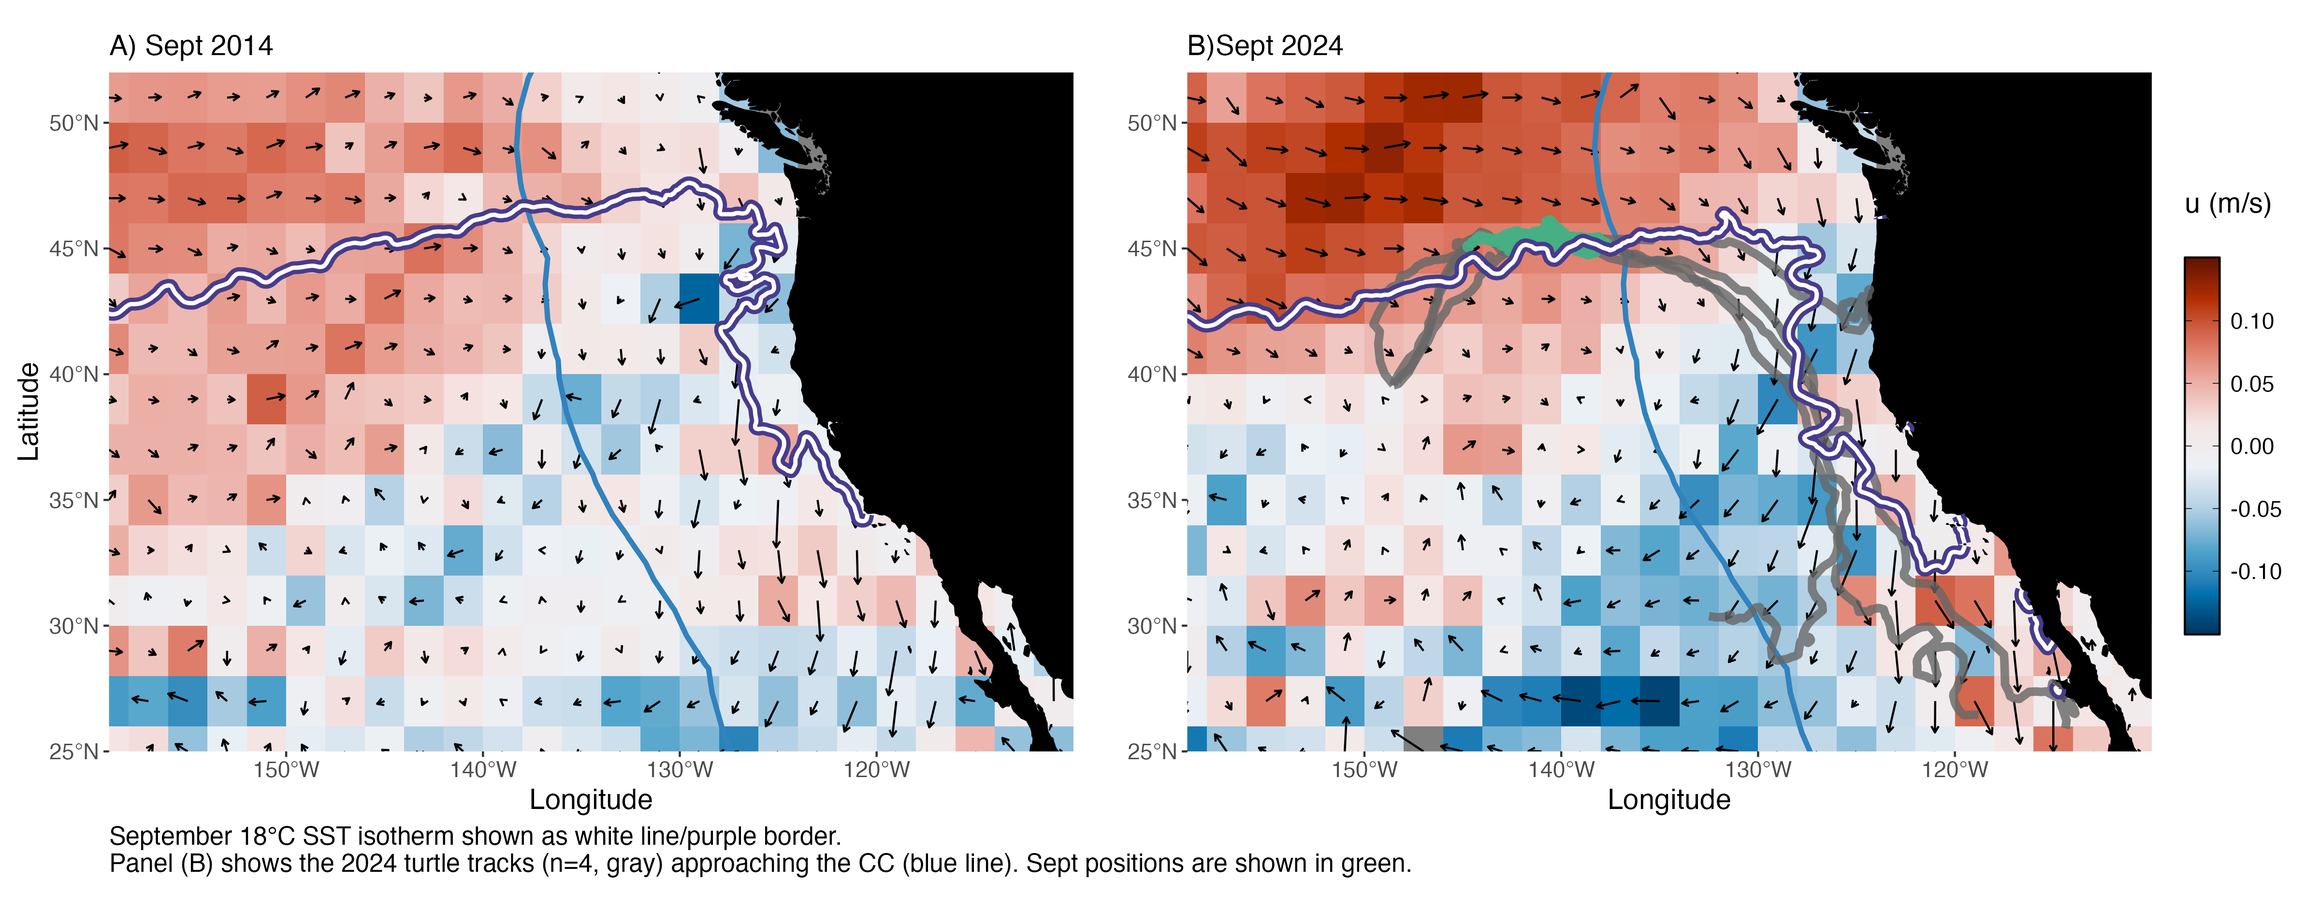
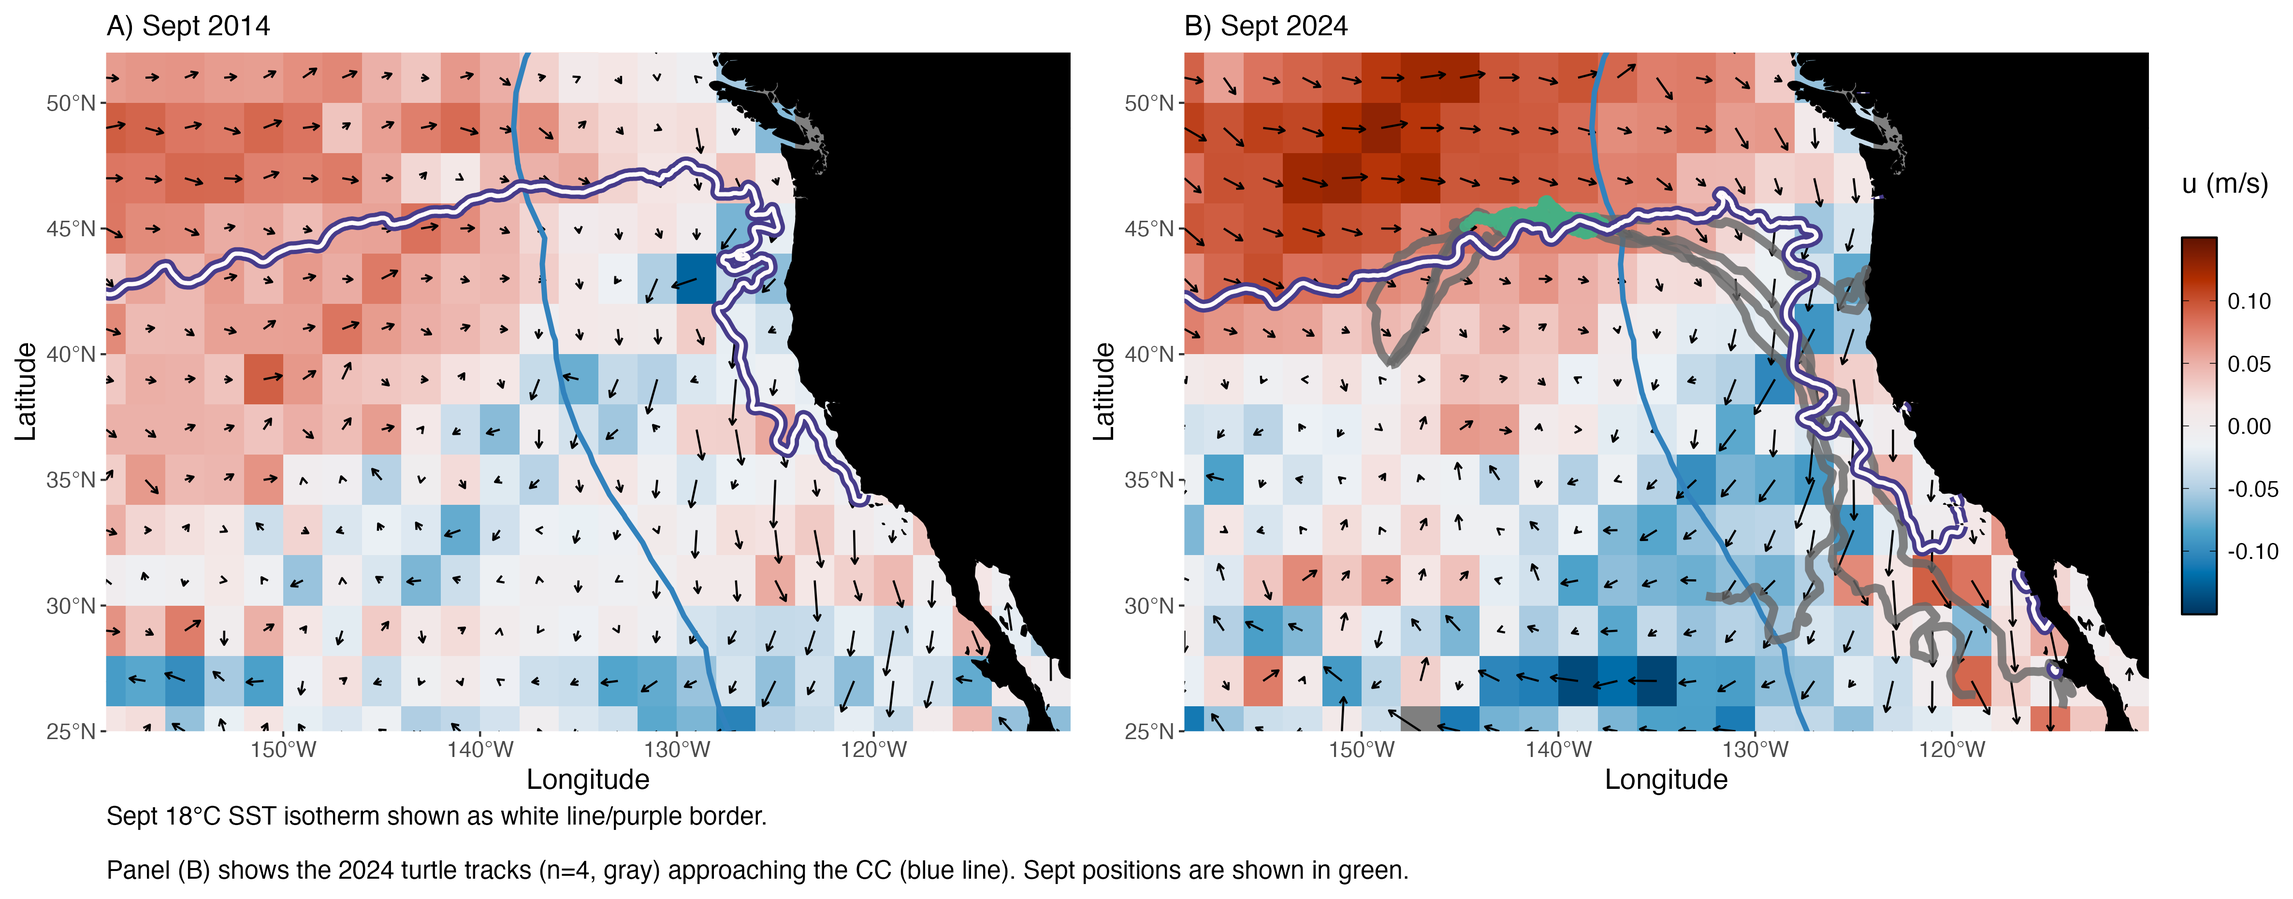
add draft figs updates for oct currents

Changed region(s): [[0.0, 0.0, 0.9983, 0.9973]]

diff --git a/docs/draft_ms_figs_10Apr2025.html b/docs/draft_ms_figs_10Apr2025.html
@@ -167,7 +167,7 @@ ul.task-list li input[type="checkbox"] {
           <li class="sidebar-item">
   <div class="sidebar-item-container"> 
   <a href="./draft_ms_figs_10Apr2025.html" class="sidebar-item-text sidebar-link active">
- <span class="menu-text">03-Apr-2025</span></a>
+ <span class="menu-text">10-Apr-2025</span></a>
   </div>
 </li>
           <li class="sidebar-item">
@@ -255,10 +255,13 @@ ul.task-list li input[type="checkbox"] {
   <ul>
   <li><a href="#draft-manuscript-figures-in-progress" id="toc-draft-manuscript-figures-in-progress" class="nav-link active" data-scroll-target="#draft-manuscript-figures-in-progress">Draft Manuscript Figures (in progress)</a>
   <ul class="collapse">
-  <li><a href="#fig-1.-september-currents-and-historic-turtle-tracks-2006---2007" id="toc-fig-1.-september-currents-and-historic-turtle-tracks-2006---2007" class="nav-link" data-scroll-target="#fig-1.-september-currents-and-historic-turtle-tracks-2006---2007">Fig 1. September currents and historic turtle tracks (2006 - 2007)</a></li>
+  <li><a href="#fig-1.-septoct-currents-and-historic-turtle-tracks-2006---2007" id="toc-fig-1.-septoct-currents-and-historic-turtle-tracks-2006---2007" class="nav-link" data-scroll-target="#fig-1.-septoct-currents-and-historic-turtle-tracks-2006---2007">Fig 1. Sept/Oct currents and historic turtle tracks (2006 - 2007)</a></li>
+  <li><a href="#a-september-b-october-2006-2007" id="toc-a-september-b-october-2006-2007" class="nav-link" data-scroll-target="#a-september-b-october-2006-2007">(A) September &amp; (B) October: 2006 &amp; 2007</a></li>
   <li><a href="#fig-2.-mean-turtle-latitude-by-year-group" id="toc-fig-2.-mean-turtle-latitude-by-year-group" class="nav-link" data-scroll-target="#fig-2.-mean-turtle-latitude-by-year-group">Fig 2. Mean Turtle Latitude by Year Group</a></li>
-  <li><a href="#fig-3.-four-cohort-2-turtles-in-cc-chl-a-septoct-2024" id="toc-fig-3.-four-cohort-2-turtles-in-cc-chl-a-septoct-2024" class="nav-link" data-scroll-target="#fig-3.-four-cohort-2-turtles-in-cc-chl-a-septoct-2024">Fig 3. Four Cohort 2 Turtles in CC &amp; Chl-a (Sept/Oct 2024)</a></li>
-  <li><a href="#fig-4.-comparison-of-sept-2014-2024-currents-isotherm" id="toc-fig-4.-comparison-of-sept-2014-2024-currents-isotherm" class="nav-link" data-scroll-target="#fig-4.-comparison-of-sept-2014-2024-currents-isotherm">Fig 4. Comparison of Sept 2014 &amp; 2024 currents &amp; isotherm</a></li>
+  <li><a href="#fig-3.-comparison-of-septoct-2014-2024-currents-isotherm" id="toc-fig-3.-comparison-of-septoct-2014-2024-currents-isotherm" class="nav-link" data-scroll-target="#fig-3.-comparison-of-septoct-2014-2024-currents-isotherm">Fig 3. Comparison of Sept/Oct 2014 &amp; 2024 currents &amp; isotherm</a></li>
+  <li><a href="#september" id="toc-september" class="nav-link" data-scroll-target="#september">September</a></li>
+  <li><a href="#october" id="toc-october" class="nav-link" data-scroll-target="#october">October</a></li>
+  <li><a href="#fig-4.-four-cohort-2-turtles-in-cc-chl-a-septoct-2024" id="toc-fig-4.-four-cohort-2-turtles-in-cc-chl-a-septoct-2024" class="nav-link" data-scroll-target="#fig-4.-four-cohort-2-turtles-in-cc-chl-a-septoct-2024">Fig 4. Four Cohort 2 Turtles in CC &amp; Chl-a (Sept/Oct 2024)</a></li>
   <li><a href="#possible-fig-or-table-current-corrected-turtle-speeds" id="toc-possible-fig-or-table-current-corrected-turtle-speeds" class="nav-link" data-scroll-target="#possible-fig-or-table-current-corrected-turtle-speeds"><em>Possible Fig or Table:</em> Current Corrected Turtle Speeds</a></li>
   </ul></li>
   </ul>
@@ -276,14 +279,17 @@ ul.task-list li input[type="checkbox"] {
 
 <section id="draft-manuscript-figures-in-progress" class="level2">
 <h2 class="anchored" data-anchor-id="draft-manuscript-figures-in-progress">Draft Manuscript Figures (in progress)</h2>
-<section id="fig-1.-september-currents-and-historic-turtle-tracks-2006---2007" class="level3">
-<h3 class="anchored" data-anchor-id="fig-1.-september-currents-and-historic-turtle-tracks-2006---2007">Fig 1. September currents and historic turtle tracks (2006 - 2007)</h3>
+<section id="fig-1.-septoct-currents-and-historic-turtle-tracks-2006---2007" class="level3">
+<h3 class="anchored" data-anchor-id="fig-1.-septoct-currents-and-historic-turtle-tracks-2006---2007">Fig 1. Sept/Oct currents and historic turtle tracks (2006 - 2007)</h3>
 <p>Average zonal flow (u) is shown with current vectors for September 2006 &amp; 2007.</p>
 <p>Full loggerhead tracks (2005-2008) are shown in gray. September positions between 2006-2007 are shown in green. See <a href="./cc_hycom_currents.html#historic-tracks-in-enp-with-zonal-average-sept-only">here</a> for a detailed figure of individual tracks.</p>
 <p>The average position of the 18°C SST isotherm (September 2006-2007) is shown in white/purple border. The offshore extent of the CC (as defined in Kahru &amp; Jacox, 2018) is shown in blue.</p>
 <p>Product: Copernicus Global Total Ocean Currents (Monthly, 0.25°), processed to a 2° x 2° spatial grid.</p>
 <p><br></p>
-<p><a href="docs/images/draft_suppl_cc_currents_sept_2006_2007.png" class="lightbox" data-gallery="quarto-lightbox-gallery-1"><img src="docs/images/draft_suppl_cc_currents_sept_2006_2007.png" class="img-fluid"></a></p>
+</section>
+<section id="a-september-b-october-2006-2007" class="level3">
+<h3 class="anchored" data-anchor-id="a-september-b-october-2006-2007">(A) September &amp; (B) October: 2006 &amp; 2007</h3>
+<p><a href="docs/images/draft_suppl_cc_currents_sept_and_oct_2006_2007.png" class="lightbox" data-gallery="quarto-lightbox-gallery-1"><img src="docs/images/draft_suppl_cc_currents_sept_and_oct_2006_2007.png" class="img-fluid"></a></p>
 <p><br></p>
 <p><br></p>
 </section>
@@ -293,18 +299,32 @@ ul.task-list li input[type="checkbox"] {
 <p><a href="docs/images/5A_Figure_turtle_yr_groups_ms_with_Q1_Q3_labels_Nov2024.jpg" class="lightbox" data-gallery="quarto-lightbox-gallery-2"><img src="docs/images/5A_Figure_turtle_yr_groups_ms_with_Q1_Q3_labels_Nov2024.jpg" class="img-fluid"></a></p>
 <p><br></p>
 </section>
-<section id="fig-3.-four-cohort-2-turtles-in-cc-chl-a-septoct-2024" class="level3">
-<h3 class="anchored" data-anchor-id="fig-3.-four-cohort-2-turtles-in-cc-chl-a-septoct-2024">Fig 3. Four Cohort 2 Turtles in CC &amp; Chl-a (Sept/Oct 2024)</h3>
-<p><a href="docs/images/draft_ms_fig_3_cc_chla_enpac.png" class="lightbox" data-gallery="quarto-lightbox-gallery-3"><img src="docs/images/draft_ms_fig_3_cc_chla_enpac.png" class="img-fluid"></a></p>
+<section id="fig-3.-comparison-of-septoct-2014-2024-currents-isotherm" class="level3">
+<h3 class="anchored" data-anchor-id="fig-3.-comparison-of-septoct-2014-2024-currents-isotherm">Fig 3. Comparison of Sept/Oct 2014 &amp; 2024 currents &amp; isotherm</h3>
+<p>Average zonal flow (u) is shown with current vectors for:</p>
+<ul>
+<li><p><strong>September (2014 and 2024)</strong></p></li>
+<li><p><strong>October (2014 and 2024)</strong></p></li>
+</ul>
+<p>Full loggerhead tracks of 4 individuals from Cohort 2 (2024) are shown in gray (Fig 4B).<br>
+Sept/Oct positions (2024) are shown in green.</p>
+<p>For both figures, the average position of the Sept/Oct 18°C SST isotherm is shown in white/purple border.<br>
+The offshore extent of the CC (as defined in Kahru &amp; Jacox, 2018) is shown in blue.</p>
+<p>Product: Copernicus Global Total Ocean Currents (Monthly, 0.25°), processed to a 2° x 2° spatial grid.</p>
+</section>
+<section id="september" class="level3">
+<h3 class="anchored" data-anchor-id="september">September</h3>
+<p><a href="docs/images/draft_ms_fig_4_cc_currents_sept_2014_vs_2024.png" class="lightbox" data-gallery="fig4-currents"><img src="docs/images/draft_ms_fig_4_cc_currents_sept_2014_vs_2024.png" class="img-fluid"></a></p>
 <p><br></p>
 </section>
-<section id="fig-4.-comparison-of-sept-2014-2024-currents-isotherm" class="level3">
-<h3 class="anchored" data-anchor-id="fig-4.-comparison-of-sept-2014-2024-currents-isotherm">Fig 4. Comparison of Sept 2014 &amp; 2024 currents &amp; isotherm</h3>
-<p>Average zonal flow (u) is shown with current vectors for September (A) 2014 and (B) 2024.</p>
-<p>Full loggerhead tracks of 4 individuals from Cohort 2 (2024) are shown in gray (Fig 4B). September positions (2024) are shown in green.</p>
-<p>For both figures, the average position of the September 18°C SST isotherm is shown in white/purple border. The offshore extent of the CC (as defined in Kahru &amp; Jacox, 2018) is shown in blue.</p>
-<p>Product: Copernicus Global Total Ocean Currents (Monthly, 0.25°), processed to a 2° x 2° spatial grid.</p>
-<p><a href="docs/images/draft_ms_fig_4_cc_currents_sept_2014_vs_2024.png" class="lightbox" data-gallery="quarto-lightbox-gallery-4"><img src="docs/images/draft_ms_fig_4_cc_currents_sept_2014_vs_2024.png" class="img-fluid"></a></p>
+<section id="october" class="level3">
+<h3 class="anchored" data-anchor-id="october">October</h3>
+<p><a href="docs/images/draft_ms_fig_4_cc_currents_oct_2014_vs_2024.png" class="lightbox" data-gallery="fig4-currents"><img src="docs/images/draft_ms_fig_4_cc_currents_oct_2014_vs_2024.png" class="img-fluid"></a></p>
+<p><br></p>
+</section>
+<section id="fig-4.-four-cohort-2-turtles-in-cc-chl-a-septoct-2024" class="level3">
+<h3 class="anchored" data-anchor-id="fig-4.-four-cohort-2-turtles-in-cc-chl-a-septoct-2024">Fig 4. Four Cohort 2 Turtles in CC &amp; Chl-a (Sept/Oct 2024)</h3>
+<p><a href="docs/images/draft_ms_fig_3_cc_chla_enpac.png" class="lightbox" data-gallery="quarto-lightbox-gallery-5"><img src="docs/images/draft_ms_fig_3_cc_chla_enpac.png" class="img-fluid"></a></p>
 <p><br></p>
 </section>
 <section id="possible-fig-or-table-current-corrected-turtle-speeds" class="level3">
@@ -567,11 +587,6 @@ window.document.addEventListener("DOMContentLoaded", function (event) {
         if (link.dataset.originalHref !== undefined) {
           link.href = link.dataset.originalHref;
         }
-          // target, if specified
-          link.setAttribute("target", "_blank");
-          if (link.getAttribute("rel") === null) {
-            link.setAttribute("rel", "noopener");
-          }
       }
     }
   function tippyHover(el, contentFn, onTriggerFn, onUntriggerFn) {
@@ -912,7 +927,7 @@ window.document.addEventListener("DOMContentLoaded", function (event) {
     </div>
   </div>
 </footer>
-<script>var lightboxQuarto = GLightbox({"loop":false,"descPosition":"top","selector":".lightbox","closeEffect":"zoom","openEffect":"zoom"});
+<script>var lightboxQuarto = GLightbox({"openEffect":"zoom","closeEffect":"zoom","selector":".lightbox","descPosition":"top","loop":false});
 (function() {
   let previousOnload = window.onload;
   window.onload = () => {

diff --git a/docs/index.html b/docs/index.html
@@ -266,19 +266,26 @@ ul.task-list li input[type="checkbox"] {
 <p><br> <br></p>
 <section id="latest-additions" class="level2">
 <h2 class="anchored" data-anchor-id="latest-additions">Latest additions:</h2>
+<p><strong>8. Apr-11-2025:</strong></p>
+<ul class="task-list">
+<li><p><label><input type="checkbox" checked=""><span style="font-size: 90%;">Updated <a href="./draft_ms_figs_10Apr2025.html#fig-1.-septoct-currents-and-historic-turtle-tracks-2006---2007">Draft Figure 1:</a> Currents, 18°C Isotherm, &amp; Turtles (includes Sept &amp; Oct 2006 &amp; 2007)</span></label></p></li>
+<li><p><label><input type="checkbox" checked=""><span style="font-size: 90%;">Updated <a href="./draft_ms_figs_10Apr2025.html#fig-3.-comparison-of-septoct-2014-2024-currents-isotherm">Draft Figure 3:</a> Currents, 18°C Isotherm, &amp; 4 CC Turtles (includes Sept &amp; Oct 2014 vs 2014)</span></label></p></li>
+<li><p><label><input type="checkbox" checked=""><span style="font-size: 90%;">Updated <a href="./cc_hycom_currents.html#october">Individual Historic Turtle Tracks (2006 - 2007) plots</a> (includes Sept &amp; Oct Zonal Average 2006 &amp; 2007)</span></label></p></li>
+</ul>
+<p><br></p>
 <p><strong>8. Apr-10-2025:</strong></p>
 <ul class="task-list">
-<li><label><input type="checkbox" checked=""><span style="font-size: 90%;">Updated <a href="./draft_ms_figs_10Apr2025.html#fig-1.-enp-september-currents-and-historic-turtle-tracks-2006---2007">Draft Figure 1:</a> Currents, 18°C Isotherm, &amp; Turtles (Sept 2006 &amp; 2007)</span></label></li>
-<li><label><input type="checkbox" checked=""><span style="font-size: 90%;">Added <a href="./draft_ms_figs_10Apr2025.html#fig-4.-comparison-of-sept-2014-2024-currents-isotherm">Draft Figure 4:</a> Currents, 18°C Isotherm, &amp; 4 CC Turtles (Sept 2014 vs 2014)</span></label></li>
-<li><label><input type="checkbox" checked=""><span style="font-size: 90%;">Updated <a href="./cc_hycom_currents.html#historic-tracks-in-enp-with-zonal-average-sept-only">Individual Historic Turtle Tracks (2005 - 2008) for Sept Zonal Average (2006 &amp; 2007 only)</a> plots</span></label></li>
-<li><label><input type="checkbox" checked=""><span style="font-size: 90%;">Added <a href="./cc_hycom_currents.html#cohort-histograms-u-v">Turtle-Hycom-Copernicus Histogram Comparisons</a> (1993 - 2024)</span></label></li>
+<li><p><label><input type="checkbox" checked=""><span style="font-size: 90%;">Updated <a href="./draft_ms_figs_10Apr2025.html#fig-1.-enp-september-currents-and-historic-turtle-tracks-2006---2007">Draft Figure 1:</a> Currents, 18°C Isotherm, &amp; Turtles (Sept 2006 &amp; 2007)</span></label></p></li>
+<li><p><label><input type="checkbox" checked=""><span style="font-size: 90%;">Added <a href="./draft_ms_figs_10Apr2025.html#fig-3.-comparison-of-septoct-2014-2024-currents-isotherm">Draft Figure 3:</a> Currents, 18°C Isotherm, &amp; 4 CC Turtles (Sept 2014 vs 2014)</span></label></p></li>
+<li><p><label><input type="checkbox" checked=""><span style="font-size: 90%;">Updated <a href="./cc_hycom_currents.html#september">Individual Historic Turtle Tracks (2006 - 2007) for Sept Zonal Average (2006 &amp; 2007 only)</a> plots</span></label></p></li>
+<li><p><label><input type="checkbox" checked=""><span style="font-size: 90%;">Added <a href="./cc_hycom_currents.html#cohort-histograms-u-v">Turtle-Hycom-Copernicus Histogram Comparisons</a> (1993 - 2024)</span></label></p></li>
 </ul>
 <p><br></p>
 <p><strong>7. Apr-03-2025:</strong></p>
 <ul class="task-list">
 <li><p><label><input type="checkbox" checked=""><span style="font-size: 90%;">Added Draft Figure 1: <a href="./draft_ms_figs_1Apr2025.html">Currents, 18°C Isotherm, &amp; Turtles Climatology (2014-2024)</a></span></label></p></li>
 <li><p><label><input type="checkbox" checked=""><span style="font-size: 90%;">Added Draft Figure 2: <a href="./draft_ms_figs_1Apr2025.html#fig-2.-mean-turtle-latitude-by-year-group">Avg Turtle Lat by Year Group</a> from Briscoe et al.&nbsp;(2025) FMS paper</span></label></p></li>
-<li><p><label><input type="checkbox" checked=""><span style="font-size: 90%;">Added Draft Figure 3: <a href="./draft_ms_figs_1Apr2025.html#fig-3.-four-cohort-2-turtles-in-cc-chl-a-septoct-2024">4 Cohort 2 Turtles in CC &amp; Chl-a (Sept/Oct 2024)</a></span> <br></label></p></li>
+<li><p><label><input type="checkbox" checked=""><span style="font-size: 90%;">Added Draft Figure 4: <a href="./draft_ms_figs_1Apr2025.html#fig-4.-four-cohort-2-turtles-in-cc-chl-a-septoct-2024">4 Cohort 2 Turtles in CC &amp; Chl-a (Sept/Oct 2024)</a></span> <br></label></p></li>
 <li><p><label><input type="checkbox" checked=""><span style="font-size: 90%;">Added <a href="./env_clims.html#currents-sept---oct-2014---2024-1-panel">Sept/Oct Currents Climatologies (2014 - 2024): 1°, 2°, 5° spatial grids</a> plots</span></label></p></li>
 <li><p><label><input type="checkbox" checked=""><span style="font-size: 90%;">Added Monthly <a href="./env_clims.html#sst-sept---oct-2014---2024">Sept/Oct SST + 18°C Isotherm (2014 - 2024)</a>) plots</span></label></p></li>
 <li><p><label><input type="checkbox" checked=""><span style="font-size: 90%;">Added <a href="./cc_hycom_currents.html#cohort-2-tracks-in-enp-by-individual">Individual Historic Turtle Tracks (2005 - 2008) &amp; Sept/Oct Zonal Clim (2014 - 2024)</a> plots</span></label></p></li>
@@ -573,11 +580,6 @@ window.document.addEventListener("DOMContentLoaded", function (event) {
         if (link.dataset.originalHref !== undefined) {
           link.href = link.dataset.originalHref;
         }
-          // target, if specified
-          link.setAttribute("target", "_blank");
-          if (link.getAttribute("rel") === null) {
-            link.setAttribute("rel", "noopener");
-          }
       }
     }
   function tippyHover(el, contentFn, onTriggerFn, onUntriggerFn) {

diff --git a/docs/cc_hycom_currents.html b/docs/cc_hycom_currents.html
@@ -262,8 +262,9 @@ ul.task-list li input[type="checkbox"] {
   <li><a href="#turtle-hycom-tracks-sept-oct" id="toc-turtle-hycom-tracks-sept-oct" class="nav-link" data-scroll-target="#turtle-hycom-tracks-sept-oct">Turtle-Hycom Tracks (Sept-Oct)</a></li>
   <li><a href="#historic-tracks-in-enp-with-zonal-average-sept-oct" id="toc-historic-tracks-in-enp-with-zonal-average-sept-oct" class="nav-link" data-scroll-target="#historic-tracks-in-enp-with-zonal-average-sept-oct">Historic tracks in ENP with Zonal Average: Sept-Oct<br>
   </a></li>
-  <li><a href="#historic-tracks-in-enp-with-zonal-average-sept-only" id="toc-historic-tracks-in-enp-with-zonal-average-sept-only" class="nav-link" data-scroll-target="#historic-tracks-in-enp-with-zonal-average-sept-only">Historic tracks in ENP with Zonal Average: Sept Only<br>
-  </a></li>
+  <li><a href="#historic-tracks-in-enp-with-zonal-average-sept-and-oct" id="toc-historic-tracks-in-enp-with-zonal-average-sept-and-oct" class="nav-link" data-scroll-target="#historic-tracks-in-enp-with-zonal-average-sept-and-oct">Historic tracks in ENP with Zonal Average: Sept and Oct</a></li>
+  <li><a href="#september" id="toc-september" class="nav-link" data-scroll-target="#september">September</a></li>
+  <li><a href="#october" id="toc-october" class="nav-link" data-scroll-target="#october">October</a></li>
   </ul></li>
   </ul>
 </nav>
@@ -410,15 +411,22 @@ Their annual Sept-Oct positions between 2005 - 2008 are shown in black.</p>
 <p><a href="docs/images/plot_fig1_u_indiv_cc_no_vectors_facets_w_captions.png" class="lightbox" data-gallery="quarto-lightbox-gallery-13"><img src="docs/images/plot_fig1_u_indiv_cc_no_vectors_facets_w_captions.png" class="img-fluid"></a></p>
 <p><br></p>
 </section>
-<section id="historic-tracks-in-enp-with-zonal-average-sept-only" class="level3">
-<h3 class="anchored" data-anchor-id="historic-tracks-in-enp-with-zonal-average-sept-only">Historic tracks in ENP with Zonal Average: Sept Only<br>
-</h3>
+<section id="historic-tracks-in-enp-with-zonal-average-sept-and-oct" class="level3">
+<h3 class="anchored" data-anchor-id="historic-tracks-in-enp-with-zonal-average-sept-and-oct">Historic tracks in ENP with Zonal Average: Sept and Oct</h3>
 <p><strong>Source: Copernicus (Monthly, 0.25° &gt;&gt; 2° spatial resolution)</strong></p>
 <p>Individual turtle tracks from the historic data set (n = 2005 - 2008) that moved into the ENP.<br>
-Their annual Sept positions between 2006 - 2007 are shown in green</p>
+Their annual Sept/ Oct positions between 2006 - 2007 are shown in green</p>
 <p><br></p>
-<p>The 2006-2007 Sept climatology of zonal (u) flow is shown as the base layer. (Source: Copernicus GlobalTotal, processed to a 2° x 2° spatial grid).</p>
-<p><a href="docs/images/draft_suppl_cc_currents_sept_2006_2007_facet.png" class="lightbox" data-gallery="quarto-lightbox-gallery-14"><img src="docs/images/draft_suppl_cc_currents_sept_2006_2007_facet.png" class="img-fluid"></a></p>
+<p>The 2006-2007 Sept/Oct climatology of zonal (u) flow is shown as the base layer. (Source: Copernicus GlobalTotal, processed to a 2° x 2° spatial grid).</p>
+</section>
+<section id="september" class="level3">
+<h3 class="anchored" data-anchor-id="september">September</h3>
+<p><a href="docs/images/draft_suppl_cc_currents_sept_2006_2007_facet.png" class="lightbox" data-gallery="cc-current-facets"><img src="docs/images/draft_suppl_cc_currents_sept_2006_2007_facet.png" class="img-fluid"></a></p>
+<p><br></p>
+</section>
+<section id="october" class="level3">
+<h3 class="anchored" data-anchor-id="october">October</h3>
+<p><a href="docs/images/draft_suppl_cc_currents_oct_2006_2007_facet.png" class="lightbox" data-gallery="cc-current-facets"><img src="docs/images/draft_suppl_cc_currents_oct_2006_2007_facet.png" class="img-fluid"></a></p>
 
 
 </section>
@@ -675,11 +683,6 @@ window.document.addEventListener("DOMContentLoaded", function (event) {
         if (link.dataset.originalHref !== undefined) {
           link.href = link.dataset.originalHref;
         }
-          // target, if specified
-          link.setAttribute("target", "_blank");
-          if (link.getAttribute("rel") === null) {
-            link.setAttribute("rel", "noopener");
-          }
       }
     }
   function tippyHover(el, contentFn, onTriggerFn, onUntriggerFn) {
@@ -1020,7 +1023,7 @@ window.document.addEventListener("DOMContentLoaded", function (event) {
     </div>
   </div>
 </footer>
-<script>var lightboxQuarto = GLightbox({"closeEffect":"zoom","loop":false,"descPosition":"top","selector":".lightbox","openEffect":"zoom"});
+<script>var lightboxQuarto = GLightbox({"selector":".lightbox","closeEffect":"zoom","openEffect":"zoom","loop":false,"descPosition":"top"});
 (function() {
   let previousOnload = window.onload;
   window.onload = () => {
